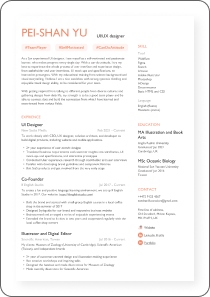
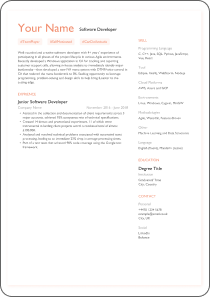
Modify MVP 0617

Changed region(s): [[0.0857, 0.0606, 0.6, 0.9091], [0.6571, 0.1212, 0.8857, 0.8485]]

diff --git a/src/constants.ts b/src/constants.ts
@@ -72,6 +72,74 @@ HTML and CSS`,
     id: 2,
     about: {
       name: '',
+      jobTitle: 'UX Designer',
+    },
+    summary: {
+      isShow: true,
+      hashtags: [],
+      paragraph: 'I care about the details and consider the UI/UX design of affordances to be crucial in creating effective, intuitive interfaces. I consider prototyping to be my weapon of choice in thinking through interaction models and new possibilities. I thrive on learning new things — I enjoy exploring new paths to familiar places. I really love snowboarding (I like both park and powder days). I also really enjoy exploring the amazing trails and landscapes around the bay area on my mountain bike. I’ve traveled a lot and enjoy seeing things from a fresh perspective :)',
+    },
+    experience: {
+      isShow: true,
+      name: 'EXPERIENCE',
+      list: [
+        {
+          isShow: true,
+          isCollapsed: false,
+          title: 'Product Designer',
+          subtitle1: 'Company Name',
+          subtitle2: 'February 2015 - Present',
+          paragraph: 'Creating functional prototype for an iPad Register product with Flinto alongside various web and client side components. Building a dashboard style guide to unify the design process across Square’s Dashboard. Launched a beta program for Online Store which involved the UX and Visuals for simplified onboarding experience, custom site editor, various templates, and order management.',
+        },
+        {
+          isShow: true,
+          isCollapsed: false,
+          title: 'Visual Designer',
+          subtitle1: 'Company Name',
+          subtitle2: 'June 2011 - Present',
+          paragraph: 'Redesigned websites, illustrated technical drawings for a fashion design firm. Produced logos, advertising materials both for print and digital marketing, promotional items, mockups and reports for local businesses.',
+        },
+      ],
+    },
+    skill: {
+      isShow: true,
+      name: 'SKILL',
+      list: [
+        {
+          isShow: true,
+          isCollapsed: false,
+          title: '',
+          subtitle1: 'Tool',
+          subtitle2: '',
+          paragraph:
+`Webflow 
+Figma 
+Sketch 
+InVision 
+Adobe Illustrator Photoshop 
+HTML and CSS`,
+        },
+      ],
+    },
+    contact: {
+      isShow: true,
+      name: 'CONTACT',
+      list: [
+        {
+          isShow: true,
+          isCollapsed: false,
+          title: '',
+          subtitle1: 'City, UK',
+          subtitle2: 'example@email.co.uk',
+          paragraph: '+4470 1234 5678',
+        },
+      ],
+    },
+  },
+  {
+    id: 3,
+    about: {
+      name: '',
       jobTitle: 'Software Developer',
     },
     summary: {
@@ -119,7 +187,7 @@ Other: Machine Learning and Data Structures`,
     },
   },
   {
-    id: 3,
+    id: 4,
     about: {
       name: '',
       jobTitle: 'Project Manager',

diff --git a/unocss.config.ts b/unocss.config.ts
@@ -23,14 +23,14 @@ export default defineConfig({
     ['btn-secondary', 'h-12 px-10 py-3 rounded-xl text-blacks-100 bg-white border-1 border-primary-100 transition duration-300 ease-out hover:bg-primary-10'],
     ['btn-icon-48', 'w-12 h-12 p-2 rounded-full text-blacks-70 bg-white shadow-custom hover:bg-primary-10'],
     ['btn-icon-48-fill', 'w-12 h-12 p-[calc(0.5rem-1px)] rounded-full text-white bg-primary-100 shadow-custom border-1 border-transparent hover:border-primary-20'],
-    ['btn-icon-32', 'w-8 h-8 p-1 text-blacks-70 rounded-full hover:bg-primary-10'],
+    ['btn-icon-32', 'w-8 h-8 p-1 text-blacks-70 rounded-full'],
     ['btn-icon-24', 'w-6 h-6 text-blacks-40 hover:text-blacks-70'],
     ['icon-32', 'w-8 h-8 block text-blacks-70'],
-    ['icon-32-fill', 'w-8 h-8 block text-white'],
+    ['icon-32-fill', 'w-8 h-8 block text-block'],
     ['btn', 'px-4 py-1 rounded inline-block bg-teal-600 text-white cursor-pointer hover:bg-teal-700 disabled:cursor-default disabled:bg-gray-600 disabled:opacity-50'],
     ['icon-btn', 'text-[0.9em] inline-block cursor-pointer select-none opacity-75 transition duration-200 ease-in-out hover:opacity-100 hover:text-teal-600 cursor-pointer'],
     ['btn-radio', 'w-6 h-6 appearance-none border border-blacks-70 rounded-full bg-clip-content p-1 checked:bg-primary-70 cursor-pointer'],
-    ['btn-header', 'flex inline-block w-12 h-12 p-2 bg-white rounded-full shadow-custom'],
+    ['btn-header', 'flex inline-block w-8 h-8 p-2 bg-white rounded-full shadow-custom'],
     ['icon-24', 'w-6 h-6 text-blacks-40 hover:text-blacks-70'],
     ['btn-toolbar', 'flex justify-center items-center text-blacks-70 hover:bg-primary-10 hover:rounded-full'],
     ['btn-group-toolbar', 'flex justify-center items-center gap-2 bg-white rounded-[69px] shadow-custom px-2 py-2'],
@@ -46,6 +46,8 @@ export default defineConfig({
     ['form-label', 'font-normal text-sm text-blacks-70 leading-[1.125rem] block'],
     ['form-input', 'w-full h-[46px] bg-white rounded-xl outline-none font-normal text-base text-blacks-100 disabled:text-blacks-40 placeholder-blacks-40 focus:placeholder-transparent mt-1 pl-4 pr-2 py-3 border-1 border-transparent hover:border-blacks-100 hover:disabled:border-white focus:text-blacks-100'],
     ['form-textarea', 'w-full h-[130px] bg-white rounded-xl outline-none font-normal text-base text-blacks-100 resize-none disabled:text-blacks-40 placeholder-blacks-40 focus:placeholder-transparent mt-1 px-4 py-3 border-1 border-white hover:border-blacks-100 hover:disabled:border-white focus:text-blacks-100'],
+    ['dropdown-menu', 'w-full bg-white border rounded-xl'],
+    ['dropdown-item', 'w-full bg-white font-normal font-mark text-blacks-100 text-base leading-[22px] hover:bg-primary-10'],
   ],
   presets: [
     presetUno(),

diff --git a/src/pages/template/index.vue b/src/pages/template/index.vue
@@ -28,9 +28,9 @@ const onNext = () => {
     <div class="flex flex-col gap-16 sm:flex-row">
       <div class="text-center">
         <label for="template-1" class="flex flex-col gap-5 cursor-pointer">
-          <img src="../../assets/images/template-UIUXDesigner.png">
+          <img src="../../assets/images/template-UIDesigner.png">
           <span class="leading text-blacks-100">
-            {{ t('template.job.designer') }}
+            {{ t('template.job.uidesigner') }}
           </span>
         </label>
         <input
@@ -44,9 +44,9 @@ const onNext = () => {
       </div>
       <div class="text-center">
         <label for="template-2" class="flex flex-col gap-5 cursor-pointer">
-          <img src="../../assets/images/template-Developer.png">
+          <img src="../../assets/images/template-UXDesigner.png">
           <span class="leading text-blacks-100">
-            {{ t('template.job.developer') }}
+            {{ t('template.job.uxdesigner') }}
           </span>
         </label>
         <input
@@ -60,9 +60,9 @@ const onNext = () => {
       </div>
       <div class="text-center">
         <label for="template-3" class="flex flex-col gap-5 cursor-pointer">
-          <img src="../../assets/images/template-ProjectManager.png">
+          <img src="../../assets/images/template-Developer.png">
           <span class="leading text-blacks-100">
-            {{ t('template.job.manager') }}
+            {{ t('template.job.developer') }}
           </span>
         </label>
         <input
@@ -72,6 +72,22 @@ const onNext = () => {
           type="radio"
           name="template"
           :value="3"
+        >
+      </div>
+      <div class="text-center">
+        <label for="template-4" class="flex flex-col gap-5 cursor-pointer">
+          <img src="../../assets/images/template-ProductManager.png">
+          <span class="leading text-blacks-100">
+            {{ t('template.job.manager') }}
+          </span>
+        </label>
+        <input
+          id="template-4"
+          v-model="selectedTemplate"
+          class="btn-radio mt-8"
+          type="radio"
+          name="template"
+          :value="4"
         >
       </div>
       <div class="text-center">

diff --git a/src/auto-imports.d.ts b/src/auto-imports.d.ts
@@ -93,6 +93,7 @@ declare global {
   const toRef: typeof import('vue')['toRef']
   const toRefs: typeof import('vue')['toRefs']
   const triggerRef: typeof import('vue')['triggerRef']
+  const tryOnBeforeMount: typeof import('@vueuse/core')['tryOnBeforeMount']
   const tryOnBeforeUnmount: typeof import('@vueuse/core')['tryOnBeforeUnmount']
   const tryOnMounted: typeof import('@vueuse/core')['tryOnMounted']
   const tryOnScopeDispose: typeof import('@vueuse/core')['tryOnScopeDispose']
@@ -118,6 +119,7 @@ declare global {
   const useCssModule: typeof import('vue')['useCssModule']
   const useCssVar: typeof import('@vueuse/core')['useCssVar']
   const useCssVars: typeof import('vue')['useCssVars']
+  const useCurrentElement: typeof import('@vueuse/core')['useCurrentElement']
   const useCycleList: typeof import('@vueuse/core')['useCycleList']
   const useDark: typeof import('@vueuse/core')['useDark']
   const useDateFormat: typeof import('@vueuse/core')['useDateFormat']
@@ -131,6 +133,7 @@ declare global {
   const useDisplayMedia: typeof import('@vueuse/core')['useDisplayMedia']
   const useDocumentVisibility: typeof import('@vueuse/core')['useDocumentVisibility']
   const useDraggable: typeof import('@vueuse/core')['useDraggable']
+  const useDropZone: typeof import('@vueuse/core')['useDropZone']
   const useElementBounding: typeof import('@vueuse/core')['useElementBounding']
   const useElementByPoint: typeof import('@vueuse/core')['useElementByPoint']
   const useElementHover: typeof import('@vueuse/core')['useElementHover']
@@ -188,6 +191,7 @@ declare global {
   const useResizeObserver: typeof import('@vueuse/core')['useResizeObserver']
   const useRoute: typeof import('vue-router')['useRoute']
   const useRouter: typeof import('vue-router')['useRouter']
+  const useScreenOrientation: typeof import('@vueuse/core')['useScreenOrientation']
   const useScreenSafeArea: typeof import('@vueuse/core')['useScreenSafeArea']
   const useScriptTag: typeof import('@vueuse/core')['useScriptTag']
   const useScroll: typeof import('@vueuse/core')['useScroll']

diff --git a/src/stores/header.ts b/src/stores/header.ts
@@ -1,0 +1,35 @@
+import { defineStore } from 'pinia'
+
+export const useHeaderAction = defineStore('headeraction', {
+    state: () => ({
+      dropdownMenu: {
+        headeraction: false,
+      },
+
+      headeraction: [
+        {
+            name: 'save',
+            label: 'Arial',
+            isActive: false,
+          },
+          {
+              name: 'import',
+              label: 'Arial',
+              isActive: false,
+          },
+          {
+              name: 'download',
+              label: 'Arial',
+              isActive: false,
+          },
+      ],
+    }),
+    actions: {
+        toggle(value: string) {
+          Object.keys(this.dropdownMenu).forEach((key) => {
+            if (key === value)
+              this.dropdownMenu[key as keyof typeof this.dropdownMenu] = !this.dropdownMenu[key as keyof typeof this.dropdownMenu]
+            else
+              this.dropdownMenu[key as keyof typeof this.dropdownMenu] = false
+          })
+        },

diff --git a/src/components/Header.vue b/src/components/Header.vue
@@ -93,9 +93,14 @@ function getJsonUpload() {
 <template>
   <header class="h-[80px] leading-80px text-center bg-white border-b border-b-blacks-20 flex justify-between px-8 py-4">
     <div class="flex gap-8">
-      <span class="btn-header bg-primary-10" />
-      <button class="btn-icon-48">
+      <span  class="btn-icon-32">
+      <span class="i-custom:logo icon-32" />
+      </span>
+      <button class="btn-icon-32">
         <span class="i-custom:idea icon-32" />
+      </button>
+      <button class="btn-icon-32">
+        <span class="i-custom:feedback icon-32" />
       </button>
     </div>
     <div v-if="isEdit" class="flex gap-8">
@@ -107,7 +112,7 @@ function getJsonUpload() {
       </button>
       <button class="btn-icon-48-fill" @click="router.push('/edit/download')">
         <span class="i-custom:download icon-32-fill" />
-      </button>
+      </button>      
     </div>
   </header>
 </template>

diff --git a/src/pages/edit/download.vue b/src/pages/edit/download.vue
@@ -61,11 +61,11 @@ const downloadPDF = () => {
       >
         <div>
           <label class="note text-blacks-70">File Type</label>
-          <select value="pdf" class="block form-input">
+          <div value="pdf" class="block form-input">
             <option value="pdf">
               PDF
             </option>
-          </select>
+          </div>
         </div>
         <div>
           <label class="note text-blacks-70">Preview</label>

diff --git a/src/components/Toolbar.vue b/src/components/Toolbar.vue
@@ -117,9 +117,6 @@ window.addEventListener('click', onClick, false)
       <div class="btn-toolbar">
         <button class="i-custom:note w-8 h-8" />
       </div>
-      <div class="btn-toolbar">
-        <button class="i-custom:feedback w-8 h-8" />
-      </div>
     </div>
   </div>
 </template>
